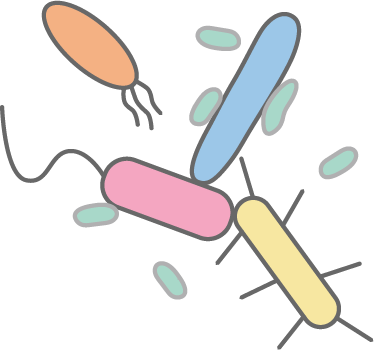
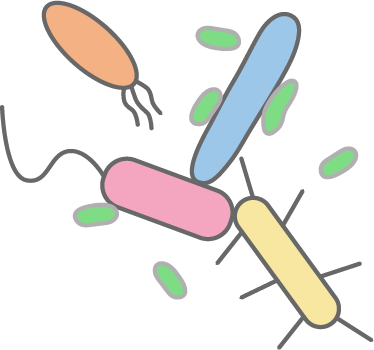
Update website

diff --git a/app/page-bak2.tsx b/app/page-bak2.tsx
@@ -310,7 +310,7 @@ function LandingPage() {
         </div>
       </div>
 
-      <p className="mx-auto mt-14 max-w-6xl text-center text-base font-normal leading-7 text-slate-800 sm:mt-20 sm:text-2xl sm:leading-10">
+      <p className="mx-auto mt-14 max-w-6xl text-center text-base leading-7 text-slate-800 sm:mt-20 sm:text-2xl sm:leading-10">
         Our group is fascinated by the molecular mechanisms underlying intermicrobial interactions, particularly how ultrasmall Patescibacteria infect their bacterial hosts and how those hosts respond.
       </p>
     </section>
